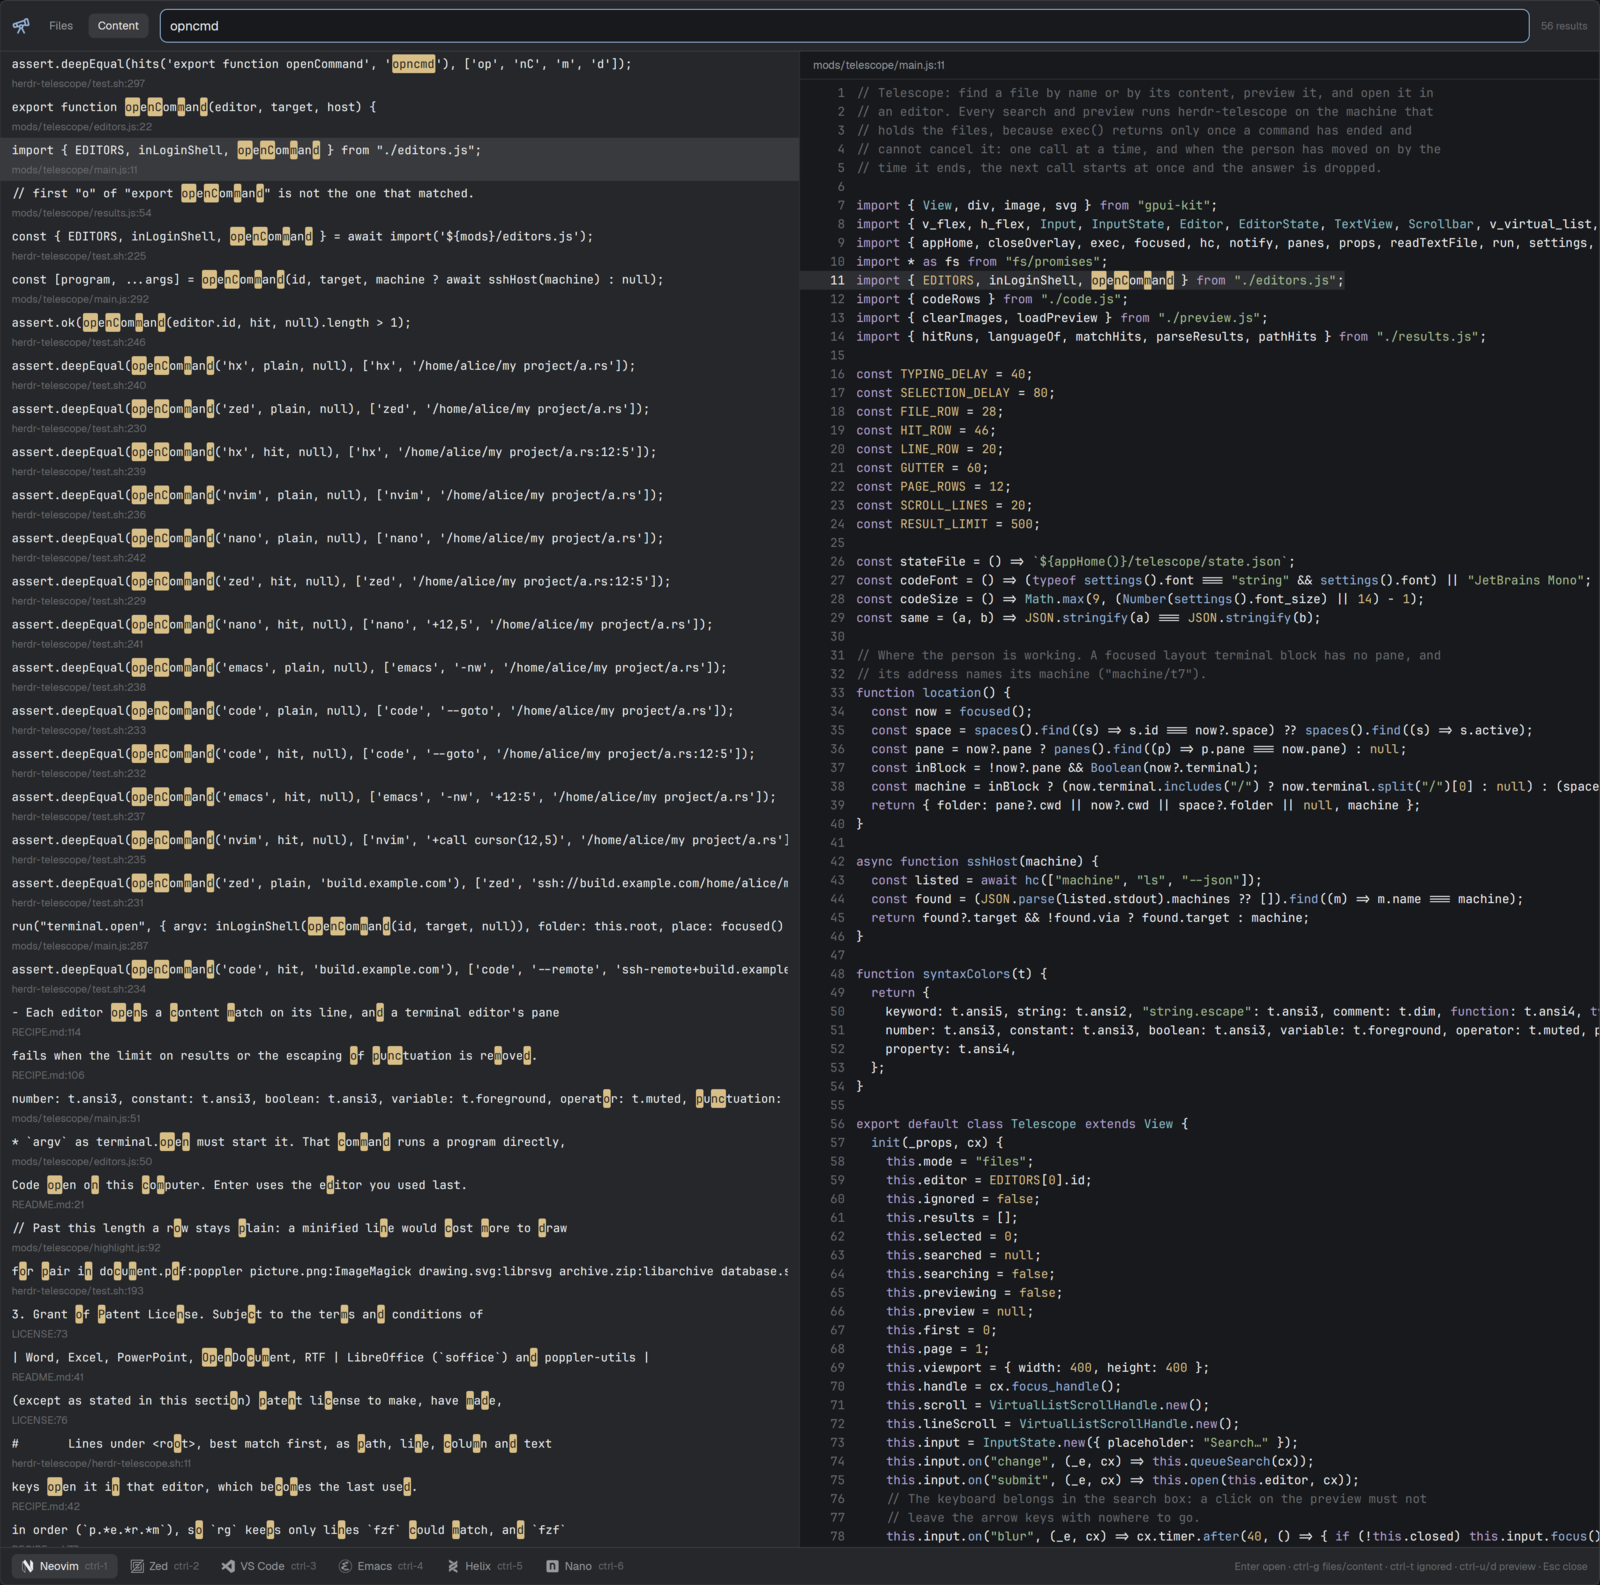
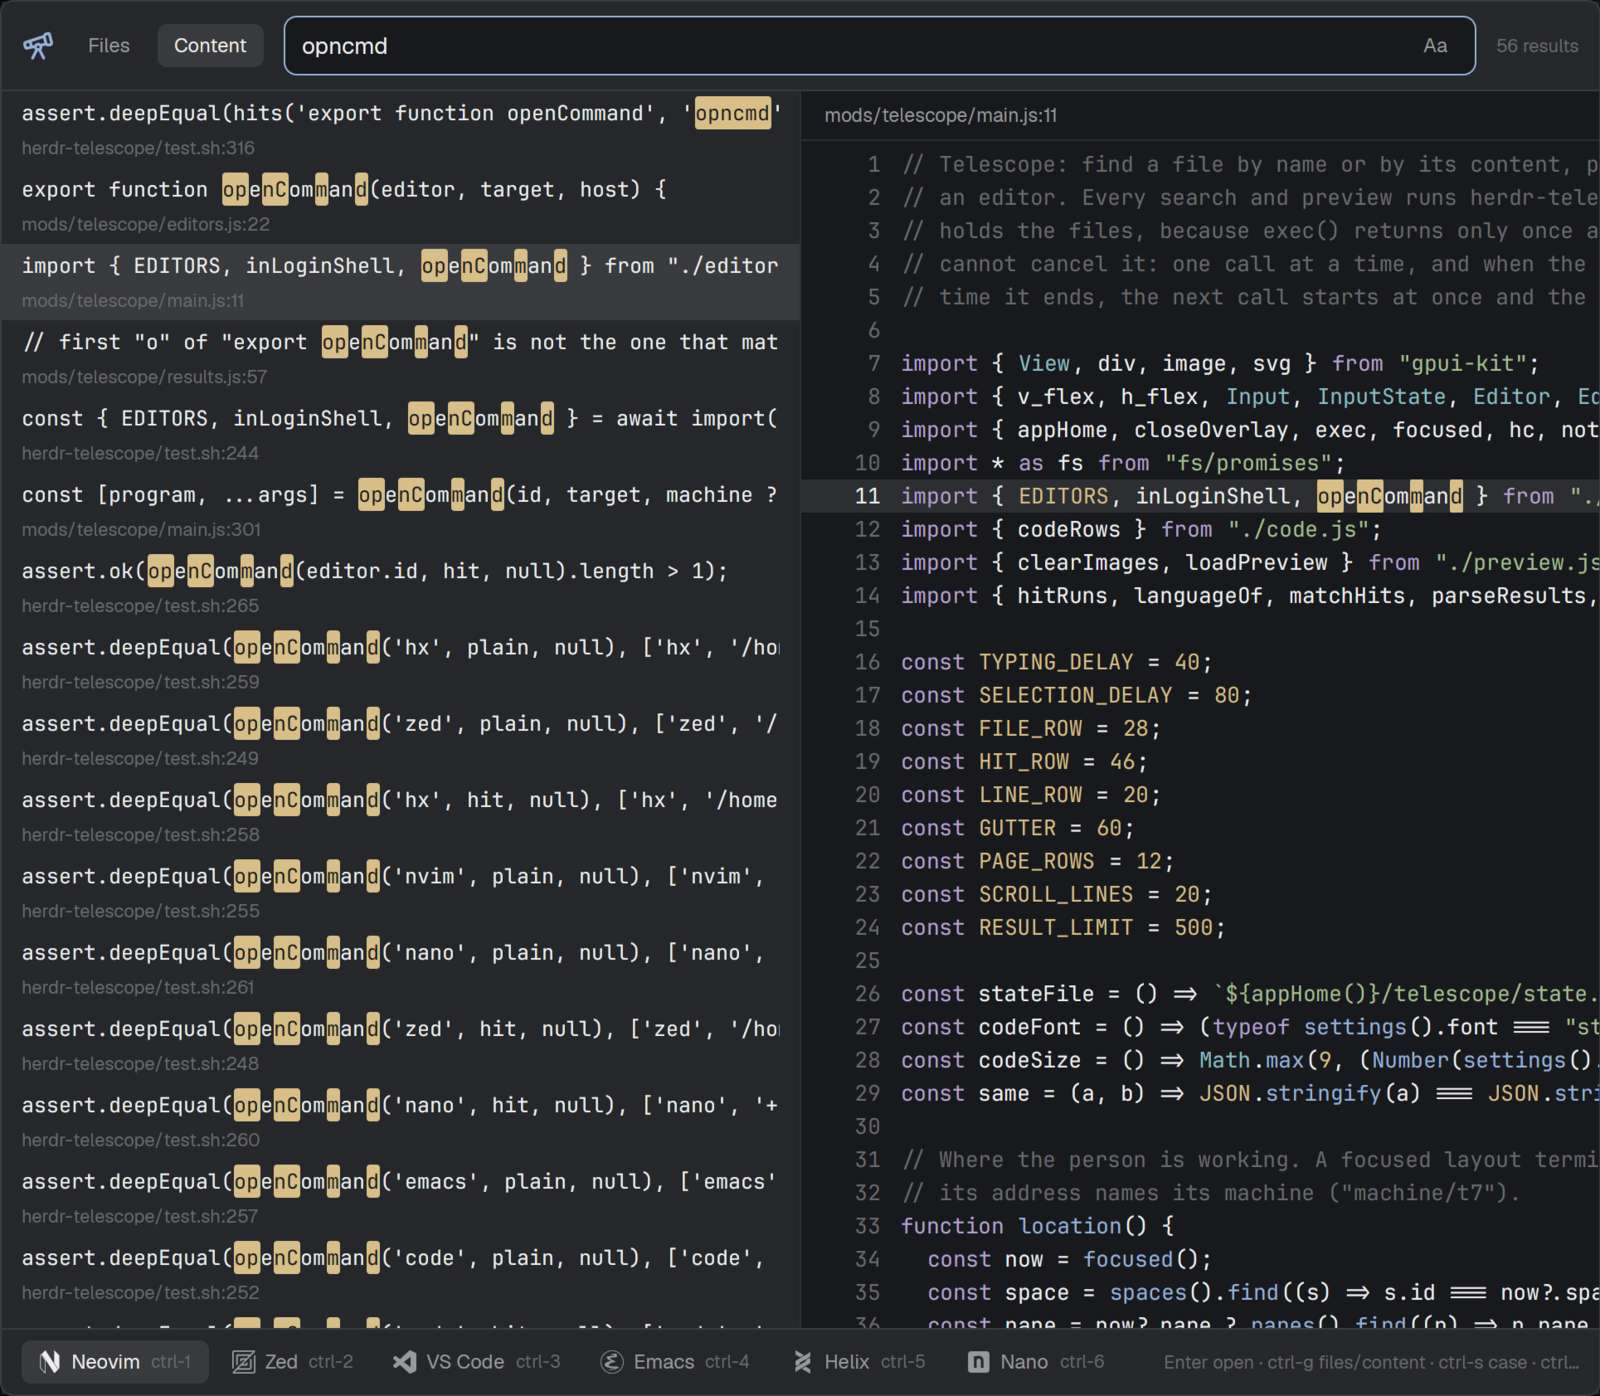
Add a match case button and make the marks follow the case rule
A term in lower case always ignored case, so nothing could find editors without also finding EDITORS. The Aa button and ctrl-s now make every term match its case, through a new --case-sensitive flag of herdr-telescope. It stays on until the dialog closes and is not remembered, because a forgotten switch would quietly hide results from later searches.

The marks ignored case even where the search did not, so a search for EDITORS also marked editors in the preview. They now follow the rule of fzf, which applies to each term on its own.

The mod and the command update apart, and another machine can lag behind. An older command rejects the new flag with a usage line, so the mod says that match case needs a newer herdr-telescope instead.

diff --git a/mods/telescope/main.js b/mods/telescope/main.js
@@ -58,6 +58,7 @@ export default class Telescope extends View {
     this.mode = "files";
     this.editor = EDITORS[0].id;
     this.ignored = false;
+    this.matchCase = false;
     this.results = [];
     this.selected = 0;
     this.searched = null;
@@ -118,7 +119,7 @@ export default class Telescope extends View {
   }
 
   wanted() {
-    return { mode: this.mode, query: this.input.value(), ignored: this.ignored };
+    return { mode: this.mode, query: this.input.value(), ignored: this.ignored, matchCase: this.matchCase };
   }
 
   queueSearch(cx) {
@@ -138,11 +139,13 @@ export default class Telescope extends View {
     this.searching = true;
     cx.notify();
     cx.spawn(async (cx) => {
-      const flags = request.ignored ? ["--no-ignore"] : [];
+      const flags = [...(request.ignored ? ["--no-ignore"] : []), ...(request.matchCase ? ["--case-sensitive"] : [])];
       let results = [], error = null;
       try {
         const found = await exec("herdr-telescope", [request.mode, ...flags, "--", this.root, request.query], { on: this.machine });
-        if (found.code !== 0) error = found.stderr.trim() || "The search failed.";
+        // The mod and the command update apart, and another machine can lag behind.
+        if (request.matchCase && found.stderr.includes("usage:")) error = `Match case needs a newer herdr-telescope${this.machine ? ` on ${this.machine}` : ""}.`;
+        else if (found.code !== 0) error = found.stderr.trim() || "The search failed.";
         else results = parseResults(request.mode, found.stdout);
       } catch (reason) {
         error = `herdr-telescope could not run${this.machine ? ` on ${this.machine}` : ""}: ${reason.message ?? reason}`;
@@ -180,7 +183,7 @@ export default class Telescope extends View {
     if (!result) return null;
     // A content match shows the query's letters, so a new query redraws it.
     const query = result.line ? this.input.value() : "";
-    return { path: this.absolute(result), line: result.line, first: this.first, page: this.page, query };
+    return { path: this.absolute(result), line: result.line, first: this.first, page: this.page, query, matchCase: this.matchCase };
   }
 
   queuePreview(cx) {
@@ -218,8 +221,8 @@ export default class Telescope extends View {
 
   setPreview(preview) {
     const lines = preview?.kind === "text" || preview?.kind === "markdown";
-    const { line, path, query } = preview?.request ?? {};
-    this.rows = lines && line ? codeRows(preview.text, preview.first_line, path, query, line) : null;
+    const { line, path, query, matchCase } = preview?.request ?? {};
+    this.rows = lines && line ? codeRows(preview.text, preview.first_line, path, query, line, matchCase) : null;
     if (this.rows) this.lineScroll.scroll_to_item(0);
     const text = !this.rows && (preview?.kind === "text" || preview?.kind === "details");
     const language = text ? languageOf(preview.language) : null;
@@ -263,6 +266,12 @@ export default class Telescope extends View {
       this.first = first;
     } else return;
     this.queuePreview(cx);
+  }
+
+  toggleCase(cx) {
+    this.matchCase = !this.matchCase;
+    this.search(cx);
+    cx.notify();
   }
 
   setMode(mode, cx) {
@@ -312,6 +321,7 @@ export default class Telescope extends View {
       "ctrl-u": () => this.scrollPreview(-1, cx),
       "ctrl-g": () => this.setMode(this.mode === "files" ? "grep" : "files", cx),
       "ctrl-t": () => { this.ignored = !this.ignored; this.search(cx); },
+      "ctrl-s": () => this.toggleCase(cx),
       ...Object.fromEntries(EDITORS.map((editor) => [editor.key, () => this.open(editor.id, cx)])),
     };
     const action = actions[event.keystroke];
@@ -340,7 +350,7 @@ export default class Telescope extends View {
   fileRow(result, index, query, t) {
     const slash = result.path.lastIndexOf("/");
     const name = result.path.slice(slash + 1), folder = slash < 0 ? "" : result.path.slice(0, slash);
-    const hits = pathHits(result.path, query);
+    const hits = pathHits(result.path, query, this.matchCase);
     return h_flex().h(FILE_ROW).px(12).gap(10).items_center().overflow_hidden()
       .when(index === this.selected, (el) => el.bg(t.selected))
       .child(h_flex().flex_none().items_center().children(hitRuns(name, hits.slice(slash + 1)).map((run) => this.span(run, t.foreground, t))))
@@ -351,7 +361,7 @@ export default class Telescope extends View {
     const text = result.text.trim();
     return v_flex().h(HIT_ROW).px(12).justify_center().gap(2).overflow_hidden()
       .when(index === this.selected, (el) => el.bg(t.selected))
-      .child(h_flex().items_center().overflow_hidden().font_family(codeFont()).text_size(12.5).children(hitRuns(text, matchHits(text, query)).map((run) => this.span(run, t.foreground, t))))
+      .child(h_flex().items_center().overflow_hidden().font_family(codeFont()).text_size(12.5).children(hitRuns(text, matchHits(text, query, true, this.matchCase)).map((run) => this.span(run, t.foreground, t))))
       .child(div().text_size(11).text_color(t.dim).truncate().child(`${result.path}:${result.line}`));
   }
 
@@ -369,12 +379,19 @@ export default class Telescope extends View {
       .when(this.mode !== mode, (el) => el.text_color(t.muted).hover((s) => s.bg(t.hover)))
       .on_click((_e, cx) => this.setMode(mode, cx))
       .child(label);
+    const matchCase = div().id("telescope-match-case").h(24).px(6).flex_none().flex().items_center().rounded(5).text_size(12).cursor_pointer()
+      .role("button").accessibility_label("Match case").tooltip("Match case (Ctrl+S)")
+      .when(this.matchCase, (el) => el.bg(t.accent).text_color(t.accent_foreground).font_medium())
+      .when(!this.matchCase, (el) => el.text_color(t.muted).hover((s) => s.bg(t.hover)))
+      .on_click((_e, cx) => this.toggleCase(cx))
+      .child("Aa");
     return h_flex().h(54).flex_none().px(12).gap(6).items_center().border_b_1().border_color(t.border)
       .child(svg("mods/telescope/icons/telescope.svg").size(20).flex_none().mr(4).text_color(t.accent))
       .child(pill("files", "Files"))
       .child(pill("grep", "Content"))
       .child(h_flex().flex_1().min_w(0).h(36).ml(6).px(10).items_center().rounded(8).border_1().border_color(t.accent).bg(t.background)
-        .child(Input.new(this.input).flex_1().h_full().text_size(14).text_color(t.foreground)))
+        .child(Input.new(this.input).flex_1().h_full().text_size(14).text_color(t.foreground))
+        .child(matchCase))
       .child(div().flex_none().ml(6).text_size(11).text_color(t.dim).child(this.status()));
   }
 
@@ -463,7 +480,7 @@ export default class Telescope extends View {
       .child(div().text_size(10.5).text_color(t.dim).child(editor.key));
     return h_flex().h(40).flex_none().px(12).gap(4).items_center().border_t_1().border_color(t.border)
       .children(EDITORS.map(button))
-      .child(div().flex_1().min_w(0).ml(12).text_size(11).text_color(t.dim).text_right().truncate().child("Enter open · ctrl-g files/content · ctrl-t ignored · ctrl-u/d preview · Esc close"));
+      .child(div().flex_1().min_w(0).ml(12).text_size(11).text_color(t.dim).text_right().truncate().child("Enter open · ctrl-g files/content · ctrl-s case · ctrl-t ignored · ctrl-u/d preview · Esc close"));
   }
 
   render() {

diff --git a/mods/telescope/results.js b/mods/telescope/results.js
@@ -25,55 +25,61 @@ export function parseResults(mode, stdout) {
 }
 
 // The terms a result can show: fzf's markers go, and an excluded term shows nowhere.
-function shownTerms(query) {
+// As in fzf, a term with a capital letter matches its case, whatever the others do.
+function shownTerms(query, matchCase) {
   return query
     .split(/\s+/)
     .filter((term) => term && !term.startsWith("!"))
-    .map((term) => term.replace(/^['^]/, "").replace(/\$$/, "").toLowerCase())
-    .filter(Boolean);
+    .map((term) => term.replace(/^['^]/, "").replace(/\$$/, ""))
+    .filter(Boolean)
+    .map((term) => ({ text: term, matchCase: matchCase || term !== term.toLowerCase() }));
 }
 
 // Where `term` is in `text`: every exact occurrence, else with `fuzzy` its letters
 // in order. Null when the whole term is not there, so that a text is never marked
 // for half a term.
 function termHits(text, term, fuzzy) {
-  const lower = text.toLowerCase();
+  const searched = term.matchCase ? text : text.toLowerCase();
+  const wanted = term.matchCase ? term.text : term.text.toLowerCase();
   const hits = [];
-  for (let at = lower.indexOf(term); at >= 0; at = lower.indexOf(term, at + term.length)) {
-    for (let i = 0; i < term.length; i++) hits.push(at + i);
+  for (let at = searched.indexOf(wanted); at >= 0; at = searched.indexOf(wanted, at + wanted.length)) {
+    for (let i = 0; i < wanted.length; i++) hits.push(at + i);
   }
   if (hits.length) return hits;
   if (!fuzzy) return null;
-  const letters = [...term];
+  const letters = [...wanted];
   let at = -1;
   for (const letter of letters) {
-    at = lower.indexOf(letter, at + 1);
+    at = searched.indexOf(letter, at + 1);
     if (at < 0) return null;
   }
   // Walking back from the last letter keeps the marks together, as fzf's are: the
   // first "o" of "export openCommand" is not the one that matched.
   hits.push(at);
   for (const letter of letters.reverse().slice(1)) {
-    at = lower.lastIndexOf(letter, at - 1);
+    at = searched.lastIndexOf(letter, at - 1);
     hits.push(at);
   }
   return hits;
 }
 
-/** For each letter of `text`, whether it matched `query`. Without `fuzzy`, only exact terms match. */
-export function matchHits(text, query, fuzzy = true) {
+/**
+ * For each letter of `text`, whether it matched `query`. Without `fuzzy` only exact
+ * terms match, and with `matchCase` every term matches its case.
+ */
+export function matchHits(text, query, fuzzy = true, matchCase = false) {
   const hits = new Array(text.length).fill(false);
-  for (const term of shownTerms(query)) {
+  for (const term of shownTerms(query, matchCase)) {
     for (const at of termHits(text, term, fuzzy) ?? []) hits[at] = true;
   }
   return hits;
 }
 
 /** matchHits for a path: a term that fits in the file's name is marked there, not in its folders. */
-export function pathHits(path, query) {
+export function pathHits(path, query, matchCase = false) {
   const name = path.lastIndexOf("/") + 1;
   const hits = new Array(path.length).fill(false);
-  for (const term of shownTerms(query)) {
+  for (const term of shownTerms(query, matchCase)) {
     const inName = termHits(path.slice(name), term, true);
     if (inName) for (const at of inName) hits[name + at] = true;
     else for (const at of termHits(path, term, true) ?? []) hits[at] = true;

diff --git a/mods/telescope/code.js b/mods/telescope/code.js
@@ -28,7 +28,7 @@ function markSpans(line, spans, hits) {
  * with spans of { text, cls, hit }. The line of the match shows its fuzzy letters.
  * Other lines show only exact terms: any line holds a query's letters somewhere.
  */
-export function codeRows(text, firstLine, path, query, matchLine) {
+export function codeRows(text, firstLine, path, query, matchLine, matchCase = false) {
   const language = languageOf(path);
   let state = null;
   return text.replace(/\n$/, "").split("\n").map((raw, index) => {
@@ -37,6 +37,6 @@ export function codeRows(text, firstLine, path, query, matchLine) {
     const tokens = tokenize(line, language, state);
     state = tokens.state;
     const matched = number === matchLine;
-    return { number, matched, spans: markSpans(line, tokens.spans, matchHits(line, query, matched)) };
+    return { number, matched, spans: markSpans(line, tokens.spans, matchHits(line, query, matched, matchCase)) };
   });
 }

diff --git a/RECIPE.md b/RECIPE.md
@@ -9,7 +9,8 @@ small command, `herdr-telescope`, on the machine that holds the files.
 A dialog of 90% of the window's width and 85% of its height, top to bottom:
 
 1. **Header**, 54px: the telescope icon in the theme's accent, two pills,
-   **Files | Content**, the search box, and the number of results.
+   **Files | Content**, the search box with its **Aa** button, on `accent` while
+   it is on, and the number of results.
 2. **Body**, the rest, in two equal halves.
    - Left, the results in a virtual list. In Files a 28px row shows the file's
      name, then its folder dimmed. In Content a 46px row shows the matching line
@@ -35,6 +36,11 @@ A dialog of 90% of the window's width and 85% of its height, top to bottom:
   is marked only when all of it matches. In a content preview the matching line
   shows the fuzzy letters; other lines show only exact terms, because any line
   holds a query's letters somewhere.
+- Case follows fzf's smart case, term by term: a term in lower case ignores case,
+  and a capital letter makes that term match its case. **Aa** and `ctrl-s` make
+  every term match its case until the dialog closes. It is not remembered, because
+  a forgotten switch would quietly hide results from later searches. The marks
+  apply the same rule, so they never show a letter the search left out.
 - A text preview is a window of 400 lines, at most 64 KiB. For a content match
   it starts 10 lines above the match. `ctrl-u` and `ctrl-d` move the window by 20
   lines, and turn the page of a PDF or document.

diff --git a/README.md b/README.md
@@ -77,6 +77,7 @@ shows the file's details and names what to install.
 | Enter | Open in the last used editor |
 | `ctrl-1` to `ctrl-6` | Open in Neovim, Zed, VS Code, Emacs, Helix or Nano |
 | `ctrl-u`, `ctrl-d` | Scroll the preview, or turn the page of a document |
+| `ctrl-s` | Match case, as the **Aa** button does |
 | `ctrl-t` | Include the files that `.gitignore` leaves out |
 | Esc | Close |
 
@@ -94,6 +95,11 @@ Terms separated by a space must all match:
 | `'word` | Exactly `word` |
 | `!word` | Not `word` |
 | `^word`, `word$` | Starts or ends with `word` |
+
+A term in lower case ignores case, and a capital letter makes that term match its
+case: `editors` finds `EDITORS`, but `EDITORS` does not find `editors`. To match the
+case of a term in lower case, press `ctrl-s` or the **Aa** button. It stays on until
+the dialog closes.
 
 ## What it runs and reads
 
